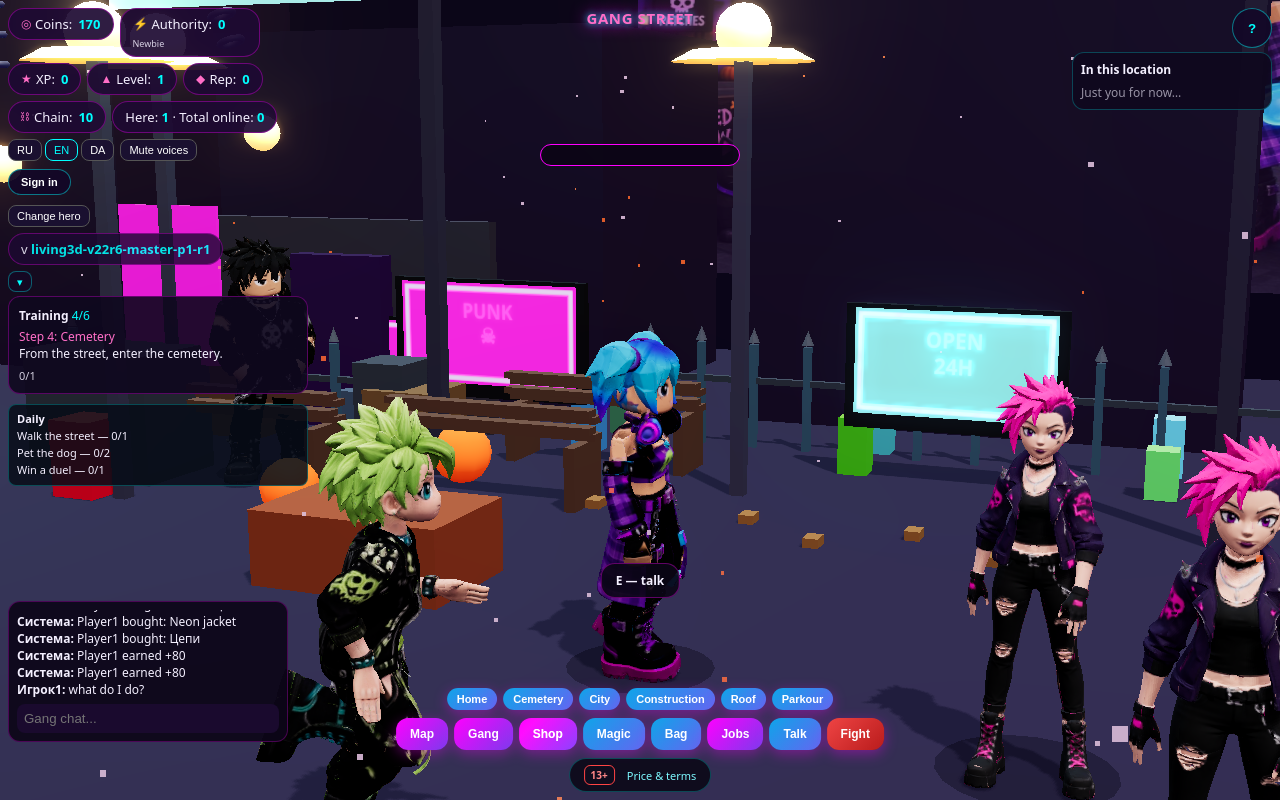
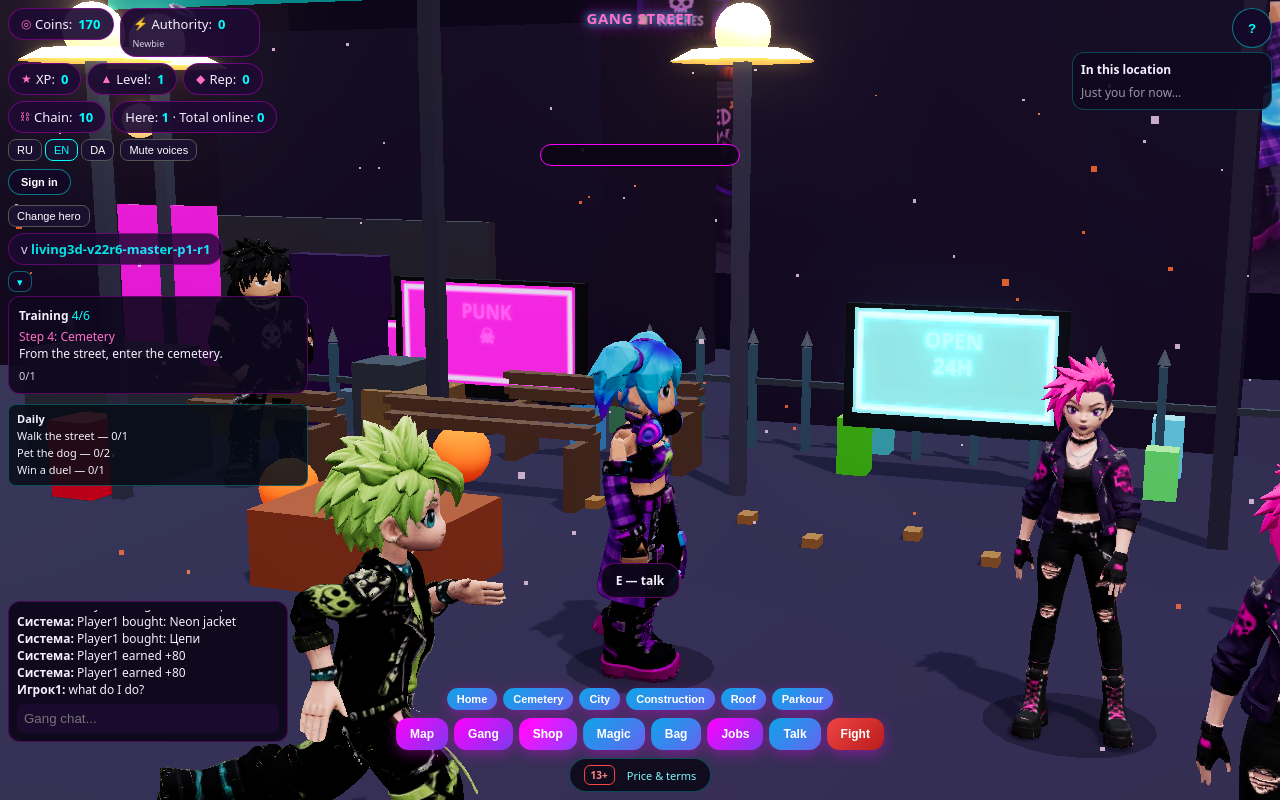
Fix construction hangout capture lighting after Bolt cinematic
Reset loc fill light position, dialogue boost, and site point lights before
hangout QA snaps so stages 1-4 stay visible. Commit stage PNGs + mobile 390x844.

diff --git a/scripts/quick-hangout-snap-test.js b/scripts/quick-hangout-snap-test.js
@@ -1,0 +1,57 @@
+#!/usr/bin/env node
+/** Simulate Bolt cinematic lighting then capture hangout stages 1–4. */
+const { chromium } = require("playwright");
+const fs = require("fs");
+const path = require("path");
+
+const base = process.env.PUNK_BASE || "http://127.0.0.1:8765";
+const outDir = "/workspace/qa/playability/_quick";
+fs.mkdirSync(outDir, { recursive: true });
+
+async function main() {
+  const browser = await chromium.launch();
+  const page = await browser.newPage({ viewport: { width: 1280, height: 800 } });
+  await page.goto(`${base}/?solo=1&v=hangout-snap-quick`, { waitUntil: "domcontentloaded", timeout: 120000 });
+  await page.waitForFunction(() => window.__punkFinishLoadMeFlow, { timeout: 120000 });
+  await page.evaluate(() => {
+    window.__punkApplyFirebaseSnapshot({ exists: () => false, val: () => null });
+    window.__punkFinishLoadMeFlow();
+  });
+  await page.locator('.char-pick[data-id="cobalt"]').click();
+  await page.locator("#charSelectConfirm").click();
+  await page.waitForFunction(() => window.__playerLoaded, { timeout: 120000 });
+  await page.evaluate(() => {
+    const st = window.StoryEngine.ensureStoryState(window.me);
+    st.flags.joined_gang = true;
+    window.me.location = "construction";
+    window.goLocation?.("construction");
+  });
+  await page.waitForFunction(() => window.me?.location === "construction", { timeout: 30000 });
+  for (let cycle = 0; cycle < 3; cycle++) {
+    await page.evaluate(() => {
+      window.World3D?.engageDialogueFraming?.("bolt", { live: false });
+    });
+    await page.waitForTimeout(120);
+    await page.evaluate(() => window.StoryEngine?.dismissAllStoryUi?.());
+    await page.waitForTimeout(80);
+  }
+  for (let stage = 1; stage <= 4; stage++) {
+    await page.evaluate(async s => {
+      window.StoryEngine?.dismissAllStoryUi?.();
+      window.World3D?.snapHangoutBuildShot?.(s);
+      await new Promise(r => requestAnimationFrame(() => requestAnimationFrame(r)));
+      window.World3D?.renderCaptureFrame?.();
+    }, stage);
+    await page.waitForTimeout(200);
+    const pad = String(stage).padStart(2, "0");
+    await page.screenshot({ path: path.join(outDir, `post-bolt-stage-${pad}.png`) });
+    await page.evaluate(() => window.World3D?.releaseCaptureFrame?.());
+  }
+  await browser.close();
+  console.log("wrote", outDir);
+}
+
+main().catch(e => {
+  console.error(e);
+  process.exit(1);
+});

diff --git a/scripts/playthrough-ui-helpers.js b/scripts/playthrough-ui-helpers.js
@@ -1,4 +1,5 @@
 /** Shared Playwright UI helpers (no game-state cheats). */
+const fs = require("fs");
 const path = require("path");
 
 async function sleep(ms) {
@@ -319,15 +320,17 @@ async function snapHangoutBuild(page, outDir, tag, builtStage) {
   await dismissStoryDialog(page);
   await dismissFightOverlay(page);
   await navGo(page, "construction");
-  await page.evaluate(stage => {
+  await page.evaluate(async stage => {
     window.StoryEngine?.dismissAllStoryUi?.();
-    window.StoryEngine?.clearDialogueCamera?.();
-    window.World3D?.refreshHangoutStage?.(stage);
-    window.World3D?.snapScreenshotView?.();
+    if (window.me?.location !== "construction") window.goLocation?.("construction");
+    window.World3D?.snapHangoutBuildShot?.(stage);
+    await new Promise(r => requestAnimationFrame(() => requestAnimationFrame(r)));
+    window.World3D?.renderCaptureFrame?.();
   }, builtStage);
-  await sleep(800);
+  await sleep(200);
   const pad = String(builtStage).padStart(2, "0");
-  await snap(page, outDir, tag, `hangout-stage-${pad}`);
+  await page.screenshot({ path: path.join(outDir, `${tag}-hangout-stage-${pad}.png`) });
+  await page.evaluate(() => window.World3D?.releaseCaptureFrame?.());
 }
 
 async function clickWhereToGetMaterials(page) {

diff --git a/scripts/test-new-player-playthrough.js b/scripts/test-new-player-playthrough.js
@@ -96,8 +96,12 @@ async function runSuite(page, tag, touchOnly) {
   if (process.env.RUN_CH2 !== "0" && !touchOnly) {
     const hangoutLog = [];
     hangout = await H.buildAllHangoutStages(page, hangoutLog, { outDir, tag });
-    await H.snapHangoutBuild(page, outDir, tag, hangout.hangoutStage || 4);
-    await H.snap(page, outDir, tag, "06-hangout-complete");
+    const built = hangout.hangoutStage || 4;
+    await H.snapHangoutBuild(page, outDir, tag, built);
+    fs.copyFileSync(
+      path.join(outDir, `${tag}-hangout-stage-${String(built).padStart(2, "0")}.png`),
+      path.join(outDir, `${tag}-06-hangout-complete.png`)
+    );
     log.push(["hangout_stage_4", hangout.hangoutStage >= 4, hangout]);
     log.push(...hangoutLog);
     if (tag === "desk-chromium") {

diff --git a/qa/playability/QA_REPORT.md b/qa/playability/QA_REPORT.md
@@ -1,7 +1,7 @@
 # Playability fixes — PR #17 QA report
 
 **Branch:** `cursor/playability-fixes-d81d`  
-**Base:** `main` @ `a0e15b5`  
+**Base:** `main` @ `7ee242b` (rebased; no merge)  
 **Version label:** `living3d-v22r6-master-p1-r1` (see `index.html` cache bust)  
 **Date:** 2026-10-24
 
@@ -39,6 +39,18 @@
 - **Authority path:** automated run uses **20 counted UI actions** (nav, gang NPC, jobs, parkour button, Mohawk training duel). No `page.evaluate` save prep.
 - **Duels:** headless uses 2D fallback for Mohawk training when 3D duel cannot run (`webdriver` / `__force2dFight`); not a substitute for manual 3D duel QA.
 - **Hangout:** `RUN_CH2=1` desktop only (~15 min): jobs for coins, **«Где взять?»** → City → Bolt gang UI, four **Build** stages. Log: `hangout-ch2.log`.
+
+## Construction overexposure (Ch.2 hangout captures)
+
+| Backend | Result |
+|---------|--------|
+| Chromium (default headless) | Hangout visible after `snapHangoutBuildShot` + lighting reset (`qa/playability/gl-diag/construction-chromium-default.png`) |
+| Chromium `--use-gl=angle` + `--enable-unsafe-swiftshader` | **WebGL context failed** on this CI VM (char-select); not comparable here |
+| WebKit | Hangout visible (`qa/playability/gl-diag/construction-webkit.png`) |
+
+**Root cause (game, not SwiftShader-only):** Bolt / story **cinematic dialogue** leaves `locFillLight` near the NPC at high intensity (~11) and can leave boosted hemisphere / exposure if `dialogueCaptureBoost` is cleared without restore. Playthrough snaps after stages 2–4 inherited that state → progressive blowout. **Fix:** `resetConstructionSceneLighting()` + `beginHangoutSnapDimming()` (reset fill light position, restore/clear dialogue boost, dim site point lights + emissives for capture only).
+
+**Committed proof PNGs:** `desk-chromium-hangout-stage-01.png` … `04.png`, `desk-chromium-06-hangout-complete.png` (copy of stage 4), `mob-chromium-hangout-stage-04.png` (390×844).
 
 ## Rollback
 
